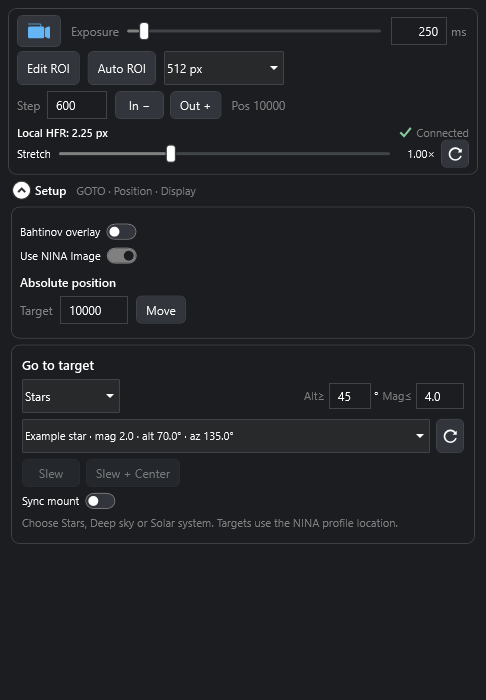
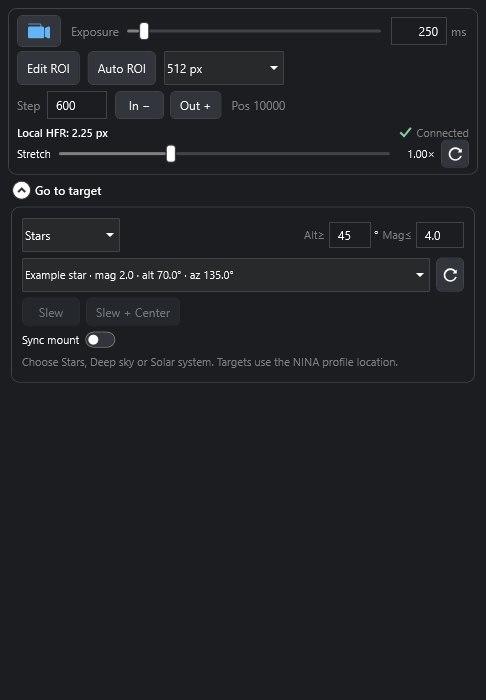
Replace setup with a target-only Go to target section

diff --git a/Dockables/LiveFocusDockableView.xaml b/Dockables/LiveFocusDockableView.xaml
@@ -207,7 +207,7 @@
                 </Style>
               </Button.Style>
             </Button>
-            <Button Content="Auto ROI" Command="{Binding AutoRoiCommand}" Style="{StaticResource FocusButton}" Margin="0,0,8,0" ToolTip="Find a star near the selected area and size its box. With Bahtinov overlay enabled, include the mask pattern. Stop preview before selecting." />
+            <Button Content="Auto ROI" Command="{Binding AutoRoiCommand}" Style="{StaticResource FocusButton}" Margin="0,0,8,0" ToolTip="Find a star near the selected area and size its box. Stop preview before selecting." />
             <ComboBox Width="120" SelectedValuePath="Tag" SelectedValue="{Binding PreviewRoiPreset, Mode=TwoWay}" IsEnabled="{Binding CanConfigureLive}" MinHeight="28" Margin="0,0,8,0" ToolTip="Choose a single ROI or Inspector 3×3 to compare the full sensor. Percentages scale both sensor dimensions: 50% uses 25% of the pixel area; 67% approximates a 1.5x crop. 100% uses the full sensor within camera alignment limits. For a custom size, drag the yellow box edges." AutomationProperties.Name="ROI size preset">
               <ComboBoxItem Content="256 px" Tag="256" />
               <ComboBoxItem Content="512 px" Tag="512" />
@@ -295,31 +295,14 @@
           </Grid>
         </StackPanel>
       </Border>
-      <Expander x:Name="SetupExpander" IsExpanded="False" Margin="2,0,2,4" ToolTip="Slew to a star, deep-sky object, Moon or planet, set an absolute focuser position, or adjust display options. Fold this after setup to enlarge the image.">
+      <Expander x:Name="SetupExpander" IsExpanded="False" Margin="2,0,2,4" ToolTip="Choose a star, deep-sky object, Moon or planet, then Slew or Slew + Center. Fold this after choosing a target to enlarge the image.">
         <Expander.Header>
-          <StackPanel Orientation="Horizontal">
-            <TextBlock Text="Setup" FontWeight="SemiBold" />
-            <TextBlock Text="GOTO · Position · Display" FontSize="11" Foreground="{StaticResource SecondaryBrush}" Margin="10,0,0,0" VerticalAlignment="Center" />
-          </StackPanel>
+          <TextBlock Text="Go to target" FontWeight="SemiBold" />
         </Expander.Header>
         <ScrollViewer x:Name="ControlsScrollViewer" VerticalScrollBarVisibility="Auto" HorizontalScrollBarVisibility="Disabled">
-          <local:FocusCardsPanel Margin="0,6,0,0">
-            <Border x:Name="RoiSetupCard" Style="{StaticResource FocusCard}">
+          <StackPanel Margin="0,6,0,0">
+            <Border x:Name="StarSetupCard" Style="{StaticResource FocusCard}" Padding="10">
               <StackPanel>
-
-                <ToggleButton Content="Bahtinov overlay" IsChecked="{Binding AnalyzeBahtinov, Mode=TwoWay}" IsEnabled="{Binding CanUseBahtinovOverlay}" Style="{StaticResource FocusSwitch}" HorizontalAlignment="Left" Margin="0,8,0,0" ToolTip="Draw diffraction lines in single-ROI view (unavailable in Inspector 3×3). Remove the mask before plate solving." />
-                <ToggleButton x:Name="MainImageOutputToggle" Content="Use NINA Image" IsChecked="{Binding ShowInNinaImage, Mode=TwoWay}" Style="{StaticResource FocusSwitch}" HorizontalAlignment="Left" Margin="0,8,0,0" ToolTip="Display the live ROI, stretch and overlay in NINA's Image panel (up to 10 updates/sec). Display only: NINA's raw-image statistics and save tools still refer to normal captures. The local preview is hidden except while editing ROI." />
-                <TextBlock Text="Absolute position" FontWeight="SemiBold" Margin="0,10,0,6" />
-                <WrapPanel Margin="0,0,0,6">
-                  <TextBlock Text="Target" Width="40" VerticalAlignment="Center" Foreground="{StaticResource SecondaryBrush}" />
-                  <TextBox Text="{Binding TargetPosition, UpdateSourceTrigger=LostFocus}" Width="68" Margin="0,0,8,0" AutomationProperties.Name="Target focuser position" ToolTip="Absolute focuser position." />
-                  <Button Content="Move" Command="{Binding MoveToPositionCommand}" Style="{StaticResource FocusButton}" Margin="0,0,6,0" />
-                </WrapPanel>
-              </StackPanel>
-            </Border>
-            <Border x:Name="StarSetupCard" Grid.Row="1" Style="{StaticResource FocusCard}" Padding="10">
-              <StackPanel>
-                <TextBlock Text="Go to target" FontWeight="SemiBold" FontSize="13" Margin="0,0,0,6" />
                 <Grid x:Name="TargetCriteriaRow" Margin="0,0,0,6">
                   <Grid.ColumnDefinitions><ColumnDefinition Width="104" /><ColumnDefinition Width="*" /></Grid.ColumnDefinitions>
                   <ComboBox x:Name="TargetCategoryPicker" ItemsSource="{Binding TargetKinds}" SelectedItem="{Binding SelectedTargetKind, Mode=TwoWay}" IsEnabled="{Binding CanEditTargets}" MinHeight="28" Margin="0,0,6,0" AutomationProperties.Name="Target category">
@@ -379,7 +362,7 @@
                 <TextBlock Text="{Binding FocusTargetStatus}" TextTrimming="CharacterEllipsis" ToolTip="{Binding FocusTargetStatus}" Foreground="{StaticResource SecondaryBrush}" FontSize="11" MinHeight="18" />
               </StackPanel>
             </Border>
-          </local:FocusCardsPanel>
+          </StackPanel>
         </ScrollViewer>
       </Expander>
     </StackPanel>
@@ -430,7 +413,7 @@
                 </Style>
               </Image.Style>
             </Image>
-            <TextBlock Text="Open Setup to choose a star area, then press the video button." TextWrapping="Wrap" TextAlignment="Center" HorizontalAlignment="Center" VerticalAlignment="Center" MaxWidth="240" Margin="12" Foreground="{StaticResource SecondaryBrush}">
+            <TextBlock Text="Choose an ROI above, then press the video button." TextWrapping="Wrap" TextAlignment="Center" HorizontalAlignment="Center" VerticalAlignment="Center" MaxWidth="240" Margin="12" Foreground="{StaticResource SecondaryBrush}">
               <TextBlock.Style>
                 <Style TargetType="TextBlock">
                   <Setter Property="Visibility" Value="Collapsed" />

diff --git a/Tools/FocusCenteringChecks/PreviewLayoutChecks.cs b/Tools/FocusCenteringChecks/PreviewLayoutChecks.cs
@@ -125,15 +125,12 @@ internal static partial class PreviewDisplayChecks {
                 magnitudeInput.Text="1.5";magnitudeInput.GetBindingExpression(TextBox.TextProperty).UpdateSource();
                 check(vm.MaximumFocusMagnitude==1.5,"Magnitude input commits the user's brightness limit");
                 vm.MaximumFocusMagnitude=4;view.Dispatcher.Invoke(()=>{},DispatcherPriority.DataBind);
-                var mainOutput=(ToggleButton)view.FindName("MainImageOutputToggle");
-                mainOutput.IsChecked=true;
-                check(vm.ShowInNinaImage,"Setup's Image output toggle controls the live mirror");
-                mainOutput.IsChecked=false;
+                check(view.FindName("MainImageOutputToggle")==null && view.FindName("RoiSetupCard")==null,
+                    "Setup contains only Go to target and no display or absolute-position card");
                 view.UpdateLayout();
             }
             check(preview.ActualHeight<fullHeight && preview.ActualHeight>=180 && ((Button)view.FindName("EditRoiButton")).ActualHeight>=28,
                 "Expanded setup leaves a usable image and exposes ROI controls at "+label+$" (image {preview.ActualHeight}, full {fullHeight}, ROI {((Button)view.FindName("EditRoiButton")).ActualHeight})");
-            var roiCard=(FrameworkElement)view.FindName("RoiSetupCard");
             var starCard=(FrameworkElement)view.FindName("StarSetupCard");
             var altitudeInput=(TextBox)view.FindName("MinimumAltitudeInput");
             var magnitudeBounds=magnitudeInput.TransformToAncestor(starCard).TransformBounds(new Rect(magnitudeInput.RenderSize));
@@ -146,9 +143,8 @@ internal static partial class PreviewDisplayChecks {
                 altitudeBounds.Left>=categoryBounds.Right && Math.Abs(altitudeBounds.Top-magnitudeBounds.Top)<2 &&
                 Math.Abs(categoryBounds.Top+categoryBounds.Height/2-altitudeBounds.Top-altitudeBounds.Height/2)<2,
                 "Stars show Alt and Mag on the category row in place of name search at "+label);
-            check(width<616 ? starCard.TranslatePoint(new Point(),view).Y>=roiCard.TranslatePoint(new Point(),view).Y+roiCard.ActualHeight
-                : starCard.TranslatePoint(new Point(),view).X>=roiCard.TranslatePoint(new Point(),view).X+roiCard.ActualWidth,
-                "ROI and star setup cards do not overlap on initial layout or resizing at "+label);
+            check(starCard.ActualWidth>=((ScrollViewer)view.FindName("ControlsScrollViewer")).ActualWidth-22,
+                "Go to target uses the full setup width without an empty second column at "+label);
             var controlsScroll=(ScrollViewer)view.FindName("ControlsScrollViewer");
             var videoY=video.TranslatePoint(new Point(),view).Y;
             controlsScroll.ScrollToEnd();view.UpdateLayout();

diff --git a/Tools/FocusCenteringChecks/RoiPresetChecks.cs b/Tools/FocusCenteringChecks/RoiPresetChecks.cs
@@ -24,9 +24,8 @@ internal static partial class PreviewDisplayChecks
         check(percentages.All(i=>i.IsEnabled),"Connecting a sensor enables the percentage choices through their real bindings");
         typeof(LiveFocusDockableVM).GetProperty(nameof(vm.IsSelectingRoi)).SetValue(vm,true);
         Choose("Inspector");
-        var overlay=Children(view).OfType<System.Windows.Controls.Primitives.ToggleButton>().Single(t=>Equals(t.Content,"Bahtinov overlay"));
-        check(inspector.IsEnabled && vm.IsAberrationInspector && !vm.IsSelectingRoi && !overlay.IsEnabled && Equals(combo.SelectedValue,"Inspector"),
-            "The actual Inspector dropdown ends ROI editing and disables the single-star overlay through its binding");
+        check(inspector.IsEnabled && vm.IsAberrationInspector && !vm.IsSelectingRoi && !vm.CanUseBahtinovOverlay && Equals(combo.SelectedValue,"Inspector"),
+            "The actual Inspector dropdown ends ROI editing and disables the single-star overlay for Inspector mode");
         vm.PreviewCenterX=60;vm.PreviewCenterY=40;
         Choose("50%");var half=vm.PreviewRoiRectangle;
         check(half.Width==4788 && half.Height==3192 && vm.PreviewRoiPreset=="50%" && Equals(combo.SelectedValue,"50%"),

diff --git a/README.md b/README.md
@@ -6,35 +6,35 @@ A NINA plugin for moving the focuser while watching a live star image.
 
 ![Live Focus layout](docs/live-focus-ui.png)
 
-Compact controls rendered with synthetic test data. Live frames use NINA's main **Image** panel by default; there is no duplicate image workspace in Live Focus. Exposure, ROI selection/editing, In / Out steps, position, local HFR and stretch stay visible. ROI sits directly below Exposure. The wider start button uses NINA's blue Live View icon. **Setup** starts folded and contains target movement, absolute position and Bahtinov overlay controls. Only its contents scroll, leaving live controls accessible on short docks.
+Compact controls rendered with synthetic test data. Live frames use NINA's main **Image** panel by default; there is no duplicate image workspace in Live Focus. Exposure, ROI selection/editing, In / Out steps, position, local HFR and stretch stay visible. ROI sits directly below Exposure. The wider start button uses NINA's blue Live View icon. **Go to target** starts folded and contains only target selection and movement controls. Only its contents scroll, leaving live controls accessible on short docks.
 
-With NINA Image output enabled, expanded Setup uses the remaining dock height. Space is reserved for a preview only when the local image is visible; resizing or switching image output updates this immediately. A scrollbar appears only when the controls exceed the available space. [Expanded Setup in a tall dock](docs/live-focus-setup-space.png).
+With NINA Image output enabled, expanded Go to target uses the remaining dock height. Space is reserved for a preview only when the local image is visible; resizing or switching image output updates this immediately. A scrollbar appears only when the controls exceed the available space. [Expanded Go to target in a tall dock](docs/live-focus-setup-space.png).
 
-Live HFR uses NINA's existing **HFR History** panel automatically during a live run. There is no separate HFR graph in Live Focus or below the Image panel. Open HFR History in NINA's Imaging workspace and dock it where you prefer. The trace is labeled **Live Focus HFR (ROI)**: it measures the selected star's central 256-pixel window, rather than the multi-star statistics of a normal captured image. Stopping live focus restores the original captured-image graph, axes and preferences. Native Clear clears only live samples during a run; normal captured-image CSV export is available again after stopping. Saved-image history and autofocus baselines are never populated with live frames. **Profile** is an optional star intensity plot available with the local preview when **Setup → Use NINA Image** is off.
+Live HFR uses NINA's existing **HFR History** panel automatically during a live run. There is no separate HFR graph in Live Focus or below the Image panel. Open HFR History in NINA's Imaging workspace and dock it where you prefer. The trace is labeled **Live Focus HFR (ROI)**: it measures the selected star's central 256-pixel window, rather than the multi-star statistics of a normal captured image. Stopping live focus restores the original captured-image graph, axes and preferences. Native Clear clears only live samples during a run; normal captured-image CSV export is available again after stopping. Saved-image history and autofocus baselines are never populated with live frames. **Profile** is an optional star intensity plot available with the local preview fallback.
 
 HFR history shows a fixed **120 seconds**, with the latest frame at the right edge (**0**) and older samples to its left. Display updates are capped at 5 per second so faster cameras do not shorten the history. Brief star-detection loss leaves a break in the line. Instantaneous HFR still uses every processed frame; this graph sampling does not change the measurements. Clear and starting a new live run reset the live history. [Native HFR History panel, rendered with synthetic data](docs/live-focus-native-hfr-history.png).
 
-ROI editing uses the main Image panel when it is visible; **Retake / Done** remain in the compact Live Focus controls. A temporary local editor is available when the main viewer is closed or **Use NINA Image** is off. Finishing restores your local star-profile choice.
+ROI editing uses the main Image panel when it is visible; **Retake / Done** remain in the compact Live Focus controls. A temporary local editor is available when the main viewer is closed or main Image output is unavailable. Finishing restores your local star-profile choice.
 
 [Small-screen controls (350 × 220)](docs/live-focus-compact.png)
 
 ## Features
 
-- Absolute focuser position, adjustable In / Out steps and cancellation.
+- Current focuser position, adjustable In / Out steps and cancellation.
 - Bright-star selection from NINA's catalogue, with adjustable minimum altitude and maximum magnitude, plus profile horizon clearance. Every matching star is listed; there is no 20-star cap.
 - A shared **Stars / Deep sky / Solar system** target picker. Stars use altitude/magnitude filters; deep sky and solar system use asynchronous name/ID search. Deep sky uses NINA's local Sky Atlas; Moon/planet coordinates use NINA's native ephemeris and the profile's observer location.
 - Separate **Slew** (coordinates only) and **Slew + Center** (NINA's configured plate solver) buttons. Active guiding is stopped before either move; disconnected, stopped, looping and selected guiders need no stop request. Guiding is not automatically restarted.
 - A **Sync mount** toggle beside the target actions directly controls NINA's existing profile **No Sync** setting, with the value inverted. There is no separate overriding setting.
 - Live ROI preview, ROI HFR in the native HFR History panel and an optional local star intensity profile. On streaming cameras, preview continues during focuser movement.
-- Main **Image** output sends the live ROI, stretch and optional Bahtinov overlay to NINA, capped at 10 updates/second. Normal grayscale output shares the existing frozen bitmap; overlay output is rasterized for the host. There are no extra captures, image-history entries or file saves.
+- Main **Image** output sends the live ROI and stretch to NINA, capped at 10 updates/second. Grayscale output shares the existing frozen bitmap. There are no extra captures, image-history entries or file saves.
 - Mouse ROI selection in the main Image panel: click a star, drag the box to move it, or drag an edge/corner to resize. Yellow grips and cursor changes distinguish the actions. The external size label stays at a fixed screen size through zoom, rotation and flip. [Main Image ROI example](docs/live-focus-main-image-roi.png).
 - An explicit **Auto ROI** button; starting live preview preserves the chosen ROI.
 - ROI presets include **50%, 67%, 100% (Full)** of both sensor dimensions alongside 256/512/1024-pixel squares. Percentages preserve the sensor aspect ratio and selected star anchor; 50% uses roughly 25% of the pixels, 67% roughly 45%, and 100% the largest camera-aligned full frame. The percentage is relative to the camera sensor, independent of viewer size or zoom. Edges are clamped to the sensor; drag the box to move it or choose a custom size.
 - **Inspector 3×3** is the default ROI mode. It compares the sensor center, four edge centers and four corners in NINA's Image panel or the local preview. All nine crops keep the original pixel scale and share one stretch. [Synthetic inspector example](docs/live-focus-inspector.png).
-- Exposure slider in 50 ms increments, optional Bahtinov mask overlay in Setup and a compact stretch slider beside the live controls. Stretch changes only the display, never raw measurements.
+- Exposure slider in 50 ms increments and a compact stretch slider beside the live controls. Stretch changes only the display, never raw measurements.
 - Optional diagnostic FITS/JSON recording and detailed timing logs. Recording is **off by default**; normal errors and warnings are still logged.
 
-Autofocus, curve fitting, spike autofocus, sequencer instructions and lens configuration are outside this plugin's scope. Use NINA's autofocus or the original Manual Focuser plugin for those features. The Bahtinov overlay is a manual focusing aid.
+Autofocus, curve fitting, spike autofocus, sequencer instructions and lens configuration are outside this plugin's scope. Use NINA's autofocus or the original Manual Focuser plugin for those features.
 
 ## Requirements and camera support
 
@@ -45,7 +45,7 @@ Autofocus, curve fitting, spike autofocus, sequencer instructions and lens confi
 
 Streaming uses NINA's existing camera connection, with no extra SDK handles. Stop waits for the camera reader and any motor movement before releasing the capture reservation. Some native SDK downloads cannot be interrupted immediately. Exact frame rate and available ROI sizes depend on the driver and camera.
 
-Normal streaming retains the host's 16-bit frame and applies a display lookup table instead of expanding the entire ROI into doubles. HFR still uses the original central sensor pixels at their original scale. Bahtinov analysis and diagnostic image recording expand the ROI only when enabled. The camera connection indicator stays visible with Setup folded; hover it for the last frame's exposure, ROI/source sizes and processing-stage timings.
+Normal streaming retains the host's 16-bit frame and applies a display lookup table instead of expanding the entire ROI into doubles. HFR still uses the original central sensor pixels at their original scale. Bahtinov analysis and diagnostic image recording expand the ROI only when enabled. The camera connection indicator stays visible with Go to target folded; hover it for the last frame's exposure, ROI/source sizes and processing-stage timings.
 
 Exposure is not the frame period: sensor readout and USB transfer can dominate even with a short exposure. NINA's QHY live-view path uses 16-bit output and the configured snapshot readout mode. Compare those settings as well as ROI dimensions when comparing another program. [Measured QHY600M pipeline and processing benchmark](docs/live-performance-2026-10-09.md).
 
@@ -75,20 +75,20 @@ NINA supplies its own libraries; do not copy every dependency from the build dir
 
 ## Using it
 
-1. Connect the camera and focuser. Open **Setup → Go to target** to choose **Stars**, **Deep sky** or **Solar system**, filter or search and select a target, then use **Slew** or **Slew + Center**. For stars, the category row shows **Alt ≥** defaults to 45° and **Mag ≤** to 4.0. Smaller magnitude limits select brighter stars; larger limits include fainter stars. Search and filter edits update the list automatically; the refresh icon recalculates current visibility. A star must also clear the profile horizon by 5°. Remove a Bahtinov mask for plate solving. Moon/planets use **Slew**.
-2. Open NINA's **Image** panel. Below Exposure, choose **Edit ROI**, edit the yellow box directly in Image, then use **Done** in Live Focus. Zoom, scroll, rotation and flip keep the ROI in sensor coordinates. With Image closed, use the temporary local editor. **Auto ROI** is an alternative near the target star. Enable Bahtinov overlay in Setup when using a mask.
-3. Fold Setup, open NINA's **Image** panel, set exposure and press the video icon to start. Use In / Out to adjust focus while viewing the star and local HFR. Open NINA's **HFR History** panel to see live ROI measurements automatically. Movement Stop and target-move cancellation remain available with Setup folded.
+1. Connect the camera and focuser. Open **Go to target** to choose **Stars**, **Deep sky** or **Solar system**, filter or search and select a target, then use **Slew** or **Slew + Center**. For stars, the category row shows **Alt ≥** defaults to 45° and **Mag ≤** to 4.0. Smaller magnitude limits select brighter stars; larger limits include fainter stars. Search and filter edits update the list automatically; the refresh icon recalculates current visibility. A star must also clear the profile horizon by 5°. Remove a Bahtinov mask for plate solving. Moon/planets use **Slew**.
+2. Open NINA's **Image** panel. Below Exposure, choose **Edit ROI**, edit the yellow box directly in Image, then use **Done** in Live Focus. Zoom, scroll, rotation and flip keep the ROI in sensor coordinates. With Image closed, use the temporary local editor. **Auto ROI** is an alternative near the target star.
+3. Fold Go to target, open NINA's **Image** panel, set exposure and press the video icon to start. Use In / Out to adjust focus while viewing the star and local HFR. Open NINA's **HFR History** panel to see live ROI measurements automatically. Movement Stop and target-move cancellation remain available with Go to target folded.
 4. Adjust Stretch if the preview is too bright. Stop preview before changing exposure or ROI.
 
 For full-sensor star-shape comparison, stop preview and choose **ROI list below Exposure → Inspector 3×3**, then start again. The nine tiles are up to 512 × 512 pixels each, without resampling. Smaller sensors use smaller tiles. The camera acquires the full sensor, so download time remains the same as Full frame; only the nine tiles are copied and stretched for display. Focuser movement continues without restarting a native stream.
 
-Inspector HFR and the optional star profile measure only the sensor-center 256-pixel window. The native HFR History trace is labeled **Live Focus HFR (sensor center)**; it is not a nine-region average or tilt fit. Bahtinov overlay is unavailable in Inspector. Choose a pixel or percentage preset to return to normal ROI with the previous star anchor. **Edit ROI** switches back after a successful overview capture; **Auto ROI** switches back after a successful selection. Changing display stretch never changes the source pixels.
+Inspector HFR and the optional star profile measure only the sensor-center 256-pixel window. The native HFR History trace is labeled **Live Focus HFR (sensor center)**; it is not a nine-region average or tilt fit. Choose a pixel or percentage preset to return to normal ROI with the previous star anchor. **Edit ROI** switches back after a successful overview capture; **Auto ROI** switches back after a successful selection. Changing display stretch never changes the source pixels.
 
-Main Image output is **on by default** and display-only: adjust stretch and read live HFR in Live Focus; NINA's raw-image statistics, processing and save tools continue to refer to normal captures. Live stream frames are never published while idle, selecting ROI or stopping. Explicit **Edit ROI / Retake** publishes the full overview for mouse editing. The overlay attaches only to the host ImageView displaying that overview and is removed on Done, switching to local preview, disposal or replacement by a normal image. It does not replace host bindings or alter the camera's normal imaging ROI. Turning off **Use NINA Image** or stopping live focus ends updates and leaves the last displayed frame in place; the next normal image replaces it.
+Main Image output is **on by default** and display-only: adjust stretch and read live HFR in Live Focus; NINA's raw-image statistics, processing and save tools continue to refer to normal captures. Live stream frames are never published while idle, selecting ROI or stopping. Explicit **Edit ROI / Retake** publishes the full overview for mouse editing. The overlay attaches only to the host ImageView displaying that overview and is removed on Done, switching to local preview, disposal or replacement by a normal image. It does not replace host bindings or alter the camera's normal imaging ROI. Stopping live focus ends updates and leaves the last displayed frame in place; the next normal image replaces it.
 
 Output uses NINA's public [IImagingMediator.SetImage](https://github.com/isbeorn/nina/blob/develop/NINA.Equipment/Interfaces/Mediator/IImagingMediator.cs) display API. The dispatcher keeps at most one pending output callback and uses the latest frame; it does not prepare or record every video frame.
 
-**Slew** never captures, solves or syncs the mount. It can work with the camera disconnected; with a connected camera it reserves capture ownership during movement to prevent overlapping exposures. **Slew + Center** uses NINA's centering tolerance and honors the profile's **No Sync** setting. Find it under **Options → Equipment → Telescope → No Sync**, or use **Setup → Go to target → Sync mount** in Live Focus (on means No Sync is off). This changes the shared NINA profile setting and applies to other NINA centering operations too. A successful sync can improve later slews, but it does not guarantee full-sky pointing accuracy. With No Sync enabled, NINA centers using an offset without updating the mount's pointing model. See [NINA No Sync](https://nighttime-imaging.eu/docs/master/site/tabs/options/equipment/#no-sync).
+**Slew** never captures, solves or syncs the mount. It can work with the camera disconnected; with a connected camera it reserves capture ownership during movement to prevent overlapping exposures. **Slew + Center** uses NINA's centering tolerance and honors the profile's **No Sync** setting. Find it under **Options → Equipment → Telescope → No Sync**, or use **Go to target → Sync mount** in Live Focus (on means No Sync is off). This changes the shared NINA profile setting and applies to other NINA centering operations too. A successful sync can improve later slews, but it does not guarantee full-sky pointing accuracy. With No Sync enabled, NINA centers using an offset without updating the mount's pointing model. See [NINA No Sync](https://nighttime-imaging.eu/docs/master/site/tabs/options/equipment/#no-sync).
 
 Guider preparation skips idle/disconnected devices. A failed stop request is accepted only if the guider has since disconnected or is confirmed idle; an active/unknown connected state still blocks movement on failure. User cancellation and guiding restarted during the move remain distinct from an already-stopped guider. This does not infer that every pointing failure is a guiding failure: camera ownership, parked mount and plate-solving errors also have their own checks.
 
@@ -98,7 +98,7 @@ The star picker uses NINA's existing bright-star catalogue. Increasing the magni
 
 ## Target search
 
-**Setup → Go to target** shares a target list and movement controls across three categories. The category row shows **Alt / Mag** for Stars and a **name/ID search** box for Deep sky or Solar system. Setup remains folded by default to preserve image space. [Target picker layout, rendered with synthetic data](docs/live-focus-target-search.png).
+**Go to target** shares a target list and movement controls across three categories. The category row shows **Alt / Mag** for Stars and a **name/ID search** box for Deep sky or Solar system. Go to target remains folded by default to preserve image space. [Target picker layout, rendered with synthetic data](docs/live-focus-target-search.png).
 
 - **Stars:** choose from NINA's bright-star catalogue using altitude/magnitude and horizon filters. There is no name search or hidden name filter; Alt and Mag sit beside the category selector.
 - **Deep sky:** search NINA's local Sky Atlas catalogue by common name or M/NGC/IC identifier; spaces and leading zeroes in these IDs are accepted. Catalogue aliases are searched; results show a matching name, current altitude and available magnitude. Up to 100 catalogue matches are shown; refine the search when the limit is reached. Star altitude/magnitude filters do not apply.
